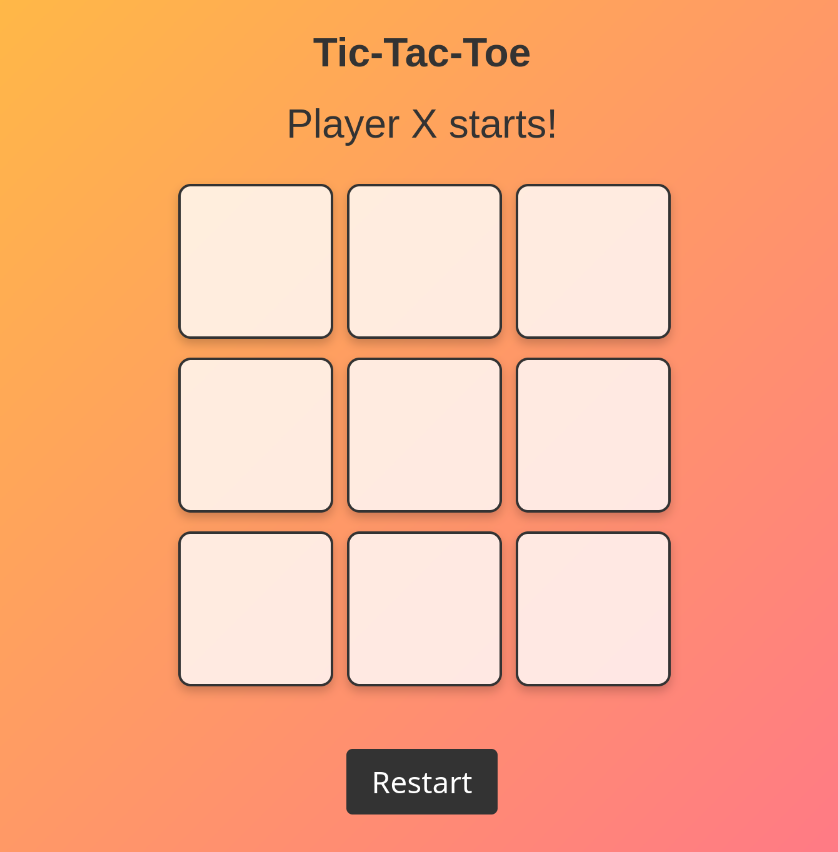
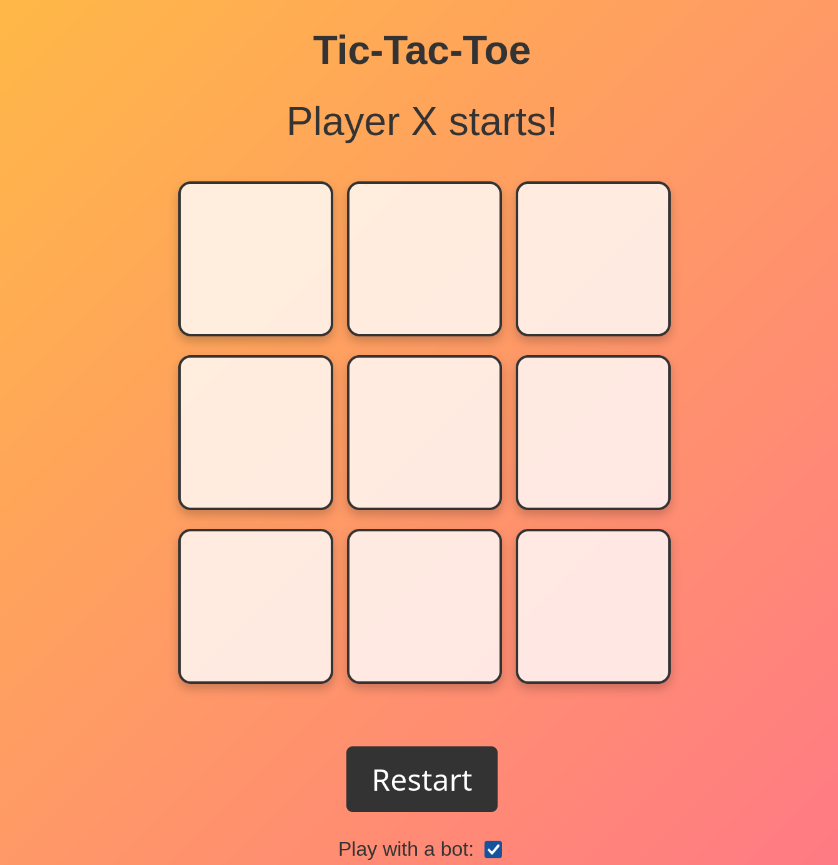
new image and styles

diff --git a/main.js b/main.js
@@ -124,6 +124,7 @@ resetBtn.addEventListener('click', () => {
 })
 
 const botmode = document.getElementById('botmode');
+botmode.checked = false;
 botmode.addEventListener('click', () => {
     bot = botmode.checked ? true : false;
     message(`Bot mode is now ${bot ? 'enabled' : 'disabled' }`);

diff --git a/index.html b/index.html
@@ -13,7 +13,7 @@
       <div id="board"></div>
       <button id="restart">Restart</button>
       <div>
-        <label for="botmode">Play with a bot.</label>
+        <label for="botmode">Play with a bot: </label>
         <input type="checkbox" id="botmode" />
       </div>
     </div>

diff --git a/main.css b/main.css
@@ -86,3 +86,7 @@ body {
     font-size: 1.5rem;
     cursor: pointer;
 }
+
+#restart:hover {
+    background-color: #424242;
+}
